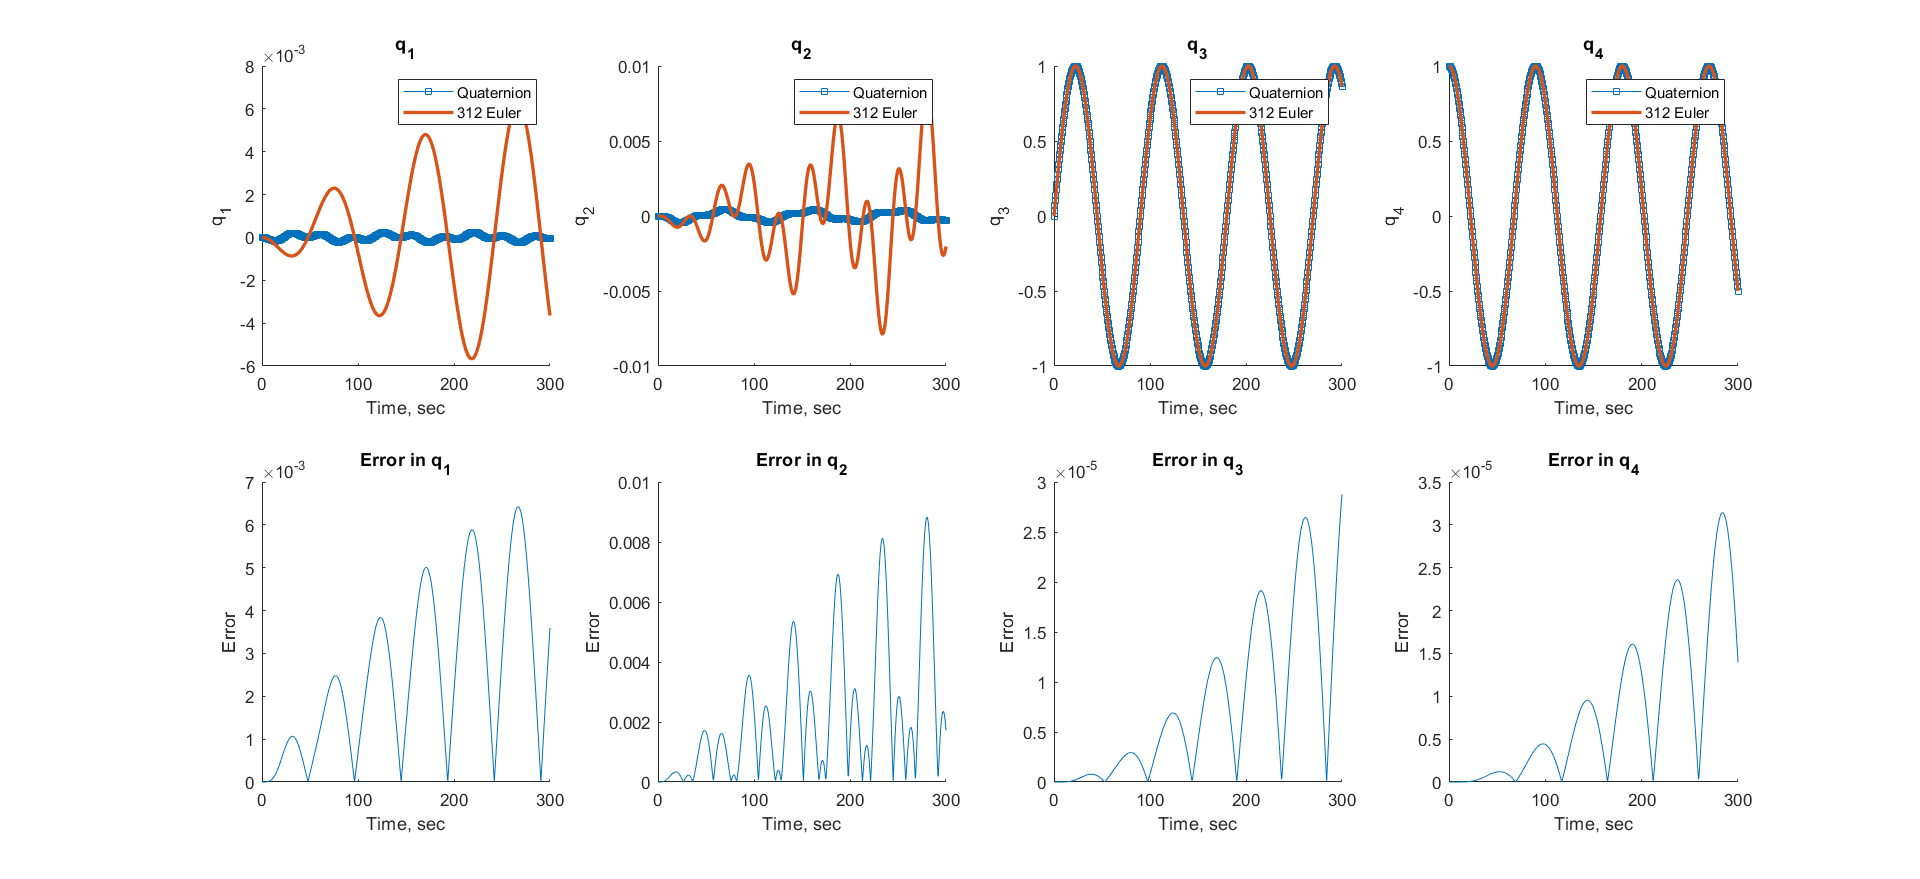
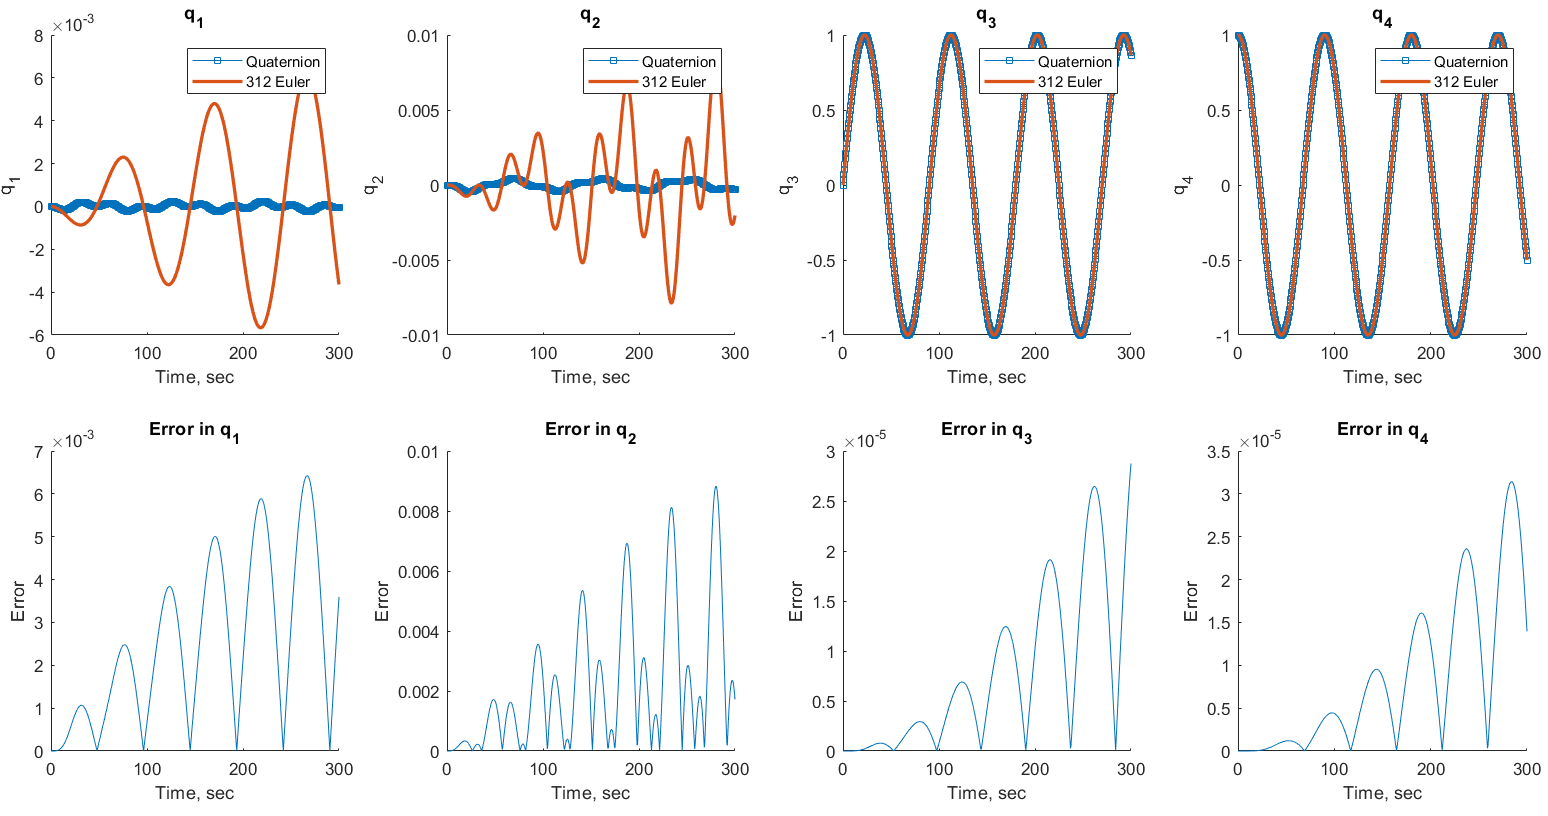
Added error comparison, dual spin analysis, and associated result photos.

diff --git a/Matlab/PSET4/DualSpin_Testing.m b/Matlab/PSET4/DualSpin_Testing.m
@@ -11,12 +11,12 @@ constants;
 
 % Simulation settings
 % Or set simulation_time in thrust_input_file.
-sim_constants.simulation_time = 3.5*3600;
-sim_constants.time_step = 0.1; % s
+sim_constants.simulation_time = 2*3600;
+sim_constants.time_step = 0.05; % s
 sim_constants.tolerance = 10^-8;
 
 % Plot formatting
-plot_format.downsample_factor = 5;
+plot_format.downsample_factor = 2;
 plot_format.mission_name = 'LS2';
 plot_format.plot_orbit_visuals = true;
 plot_format.dock_plots = true;
@@ -26,10 +26,9 @@ plot_format.time_increments = 'hours';
 plot_format = check_time_increments(plot_format);
 
 %% Select test
-run_test = 'Int_Stability';
+run_test = 'Other_Stability';
 
-I = sim_constants.I_princ; w0 = sim_constants.angvel0;
-sim_constants.w_r0 = 0.5; % rad/s, very slow spin for testing
+sim_constants.w_r0 = 1; % rad/s, very slow spin for testing
 switch run_test
     case 'Eq_X'
         sim_constants.r_rotor = [1; 0; 0];
@@ -49,23 +48,25 @@ switch run_test
                 % initially aligned with RTN
     case 'Stab_X'
         sim_constants.r_rotor = [1; 0; 0];
-        sim_constants.angvel0 = deg2rad([7; 0.1; 0.1]);
+        sim_constants.angvel0 = deg2rad([7; 0.01; 0.01]);
     case 'Stab_Y'
         sim_constants.r_rotor = [0; 1; 0];
-        sim_constants.angvel0 = deg2rad([0.1; 7; 0.1]);
+        sim_constants.angvel0 = deg2rad([0.01; 7; 0.01]);
     case 'Stab_Z'
         sim_constants.r_rotor = [0; 0; 1];
         sim_constants.angvel0 = deg2rad([0.1; 0.1; 7]);
     case 'Int_Stability'
         sim_constants.r_rotor = [0; 1; 0];
-        sim_constants.angvel0 = deg2rad([0.1;7;0.1]); %rad/s, along intermediate axis
-        sim_constants.w_r0 = sign(w0(2))*2*max(abs((I(3)-I(2))*w0(2)) , 0)/sim_constants.I_r; % ensure stability
-        sim_constants.w_rmax = 1E6; % allow a very high spin, despite limitations of momentum wheel
+        sim_constants.angvel0 = deg2rad([0.01;7;0.01]); %rad/s, along intermediate axis
+        I = sim_constants.I_princ; w0 = sim_constants.angvel0;
+        sim_constants.w_r0 = 10*(I(3)-I(2))*w0(2)/sim_constants.I_r; % ensure stability
+        sim_constants.w_rmax = abs(sim_constants.w_r0);
     case 'Other_Stability'
-        sim_constants.r_rotor = [0; 1; 0];
-        sim_constants.angvel0 = deg2rad([0.1;7;0.1]); %rad/s, along intermediate axis
-        sim_constants.w_r0 = sign(w0(2))*2*max(abs((I(3)-I(2))*w0(2)) , 0)/sim_constants.I_r; % ensure stability
-        sim_constants.w_rmax = 1E6;
+        sim_constants.r_rotor = [0; 0; 1];
+        sim_constants.angvel0 = deg2rad([0.01;0;0.01]); %rad/s, along z axis w/o spin
+        I = sim_constants.I_princ; w0 = sim_constants.angvel0;
+        sim_constants.w_r0 = 100; % ensure stability ( anything other than 0 is sufficient )
+        sim_constants.w_rmax = abs(sim_constants.w_r0);
 end
 
 

diff --git a/Matlab/functions_and_helper_scripts/plot_coordtriads.m b/Matlab/functions_and_helper_scripts/plot_coordtriads.m
@@ -72,7 +72,12 @@ function plot_coordtriads(sim_constants, sim_output, plot_format)
     
     %% Plot trace of coordinate tips for principal, body, and RTN axes in inertial frame
     figure('Name',strcat(mission_name, ' Triads in Time')); hold on;
-    tend = fix(3*tend/100); % only plot a few percent of the orbital period to keep plot uncluttered
+    if tend == (length(sim_output.time) - df)
+        % if less than a full orbit, plot half of the run
+        tend = fix(tend);
+    else
+        tend = fix(0.03*tend); % only plot a few percent of the first orbital period to keep plot uncluttered
+    end
     sim_time = sim_output.time(1:tend)*plot_format.seconds_to_increment; 
     Nax = 2; % number of actual axes to plot (unit length arrows along XYZ)
     ax_reduction = fix(length(sim_time)/(Nax-1) - 1); % lower sampling for axes plotting
